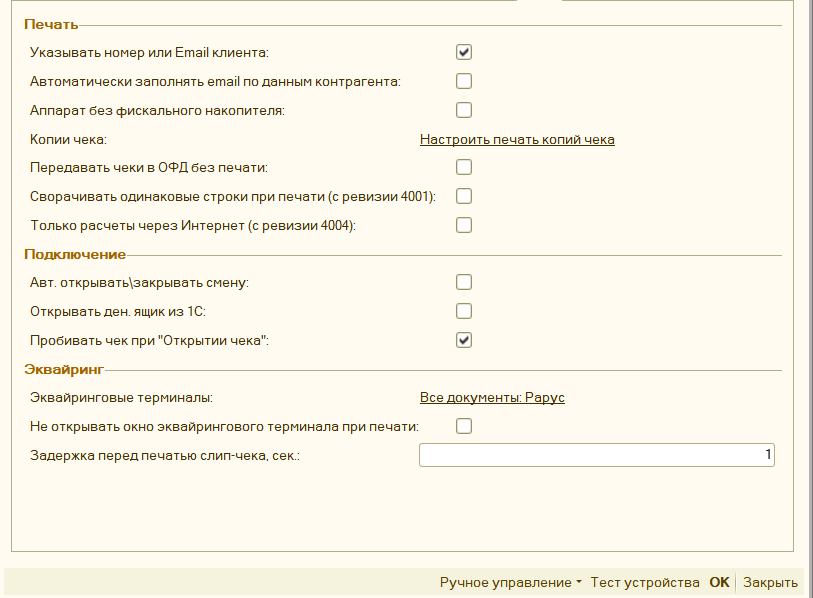
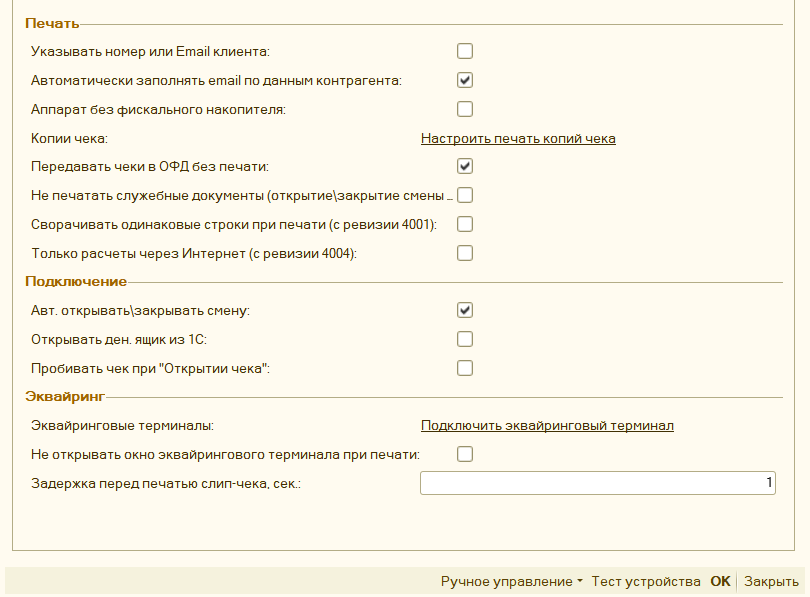
3.95

Changed region(s): [[0.0, 0.0, 1.0, 1.0], [0.0309, 0.7538, 0.5247, 0.8442], [0.0309, 0.1809, 0.3704, 0.2412]]

diff --git a/docs/connecting.md b/docs/connecting.md
@@ -21,6 +21,7 @@
    - укажите **"путь к компонентам ТО"**, если вы их уже скачали, либо нажмите на ссылку **"Скачать компоненты оборудования"** и скачайте компоненты для вашей операционной системы (Windows или Linux), и распакуйте их в доступный каталог, после этого выберите папку с ними в указанном поле.
    - выберите вашу систему налогообложения - "по умолчанию"
    - укажите тип лицензии, которую хотите активировать или "демо"
+   - если вы используете НДС 5% и 7%, то в списке компонент нужно выбирать те, что помечены "НДС", подробнее описано [здесь](instruction.md#поддержка-ндс-5-и-7)
    - если необходимо активировать лицензию, нажмите на "**Получить ключ**" и воспользуйтесь инструкцией для [формы лицензирования](licensing.md#форма-лицензирования)
    - если по каким-либо причинам при активации появляется ошибка, то можно нажать "**Использовать COM компоненту для обертки NATIVE**", которая будет использовать компоненту [прослойку](#особенность-подключения-81) между обработкой и оборудованием
    - нажмите "**активировать**" - откроется форма [основных настроек обработки](parameters_description.md)

diff --git a/docs/parameters_description.md b/docs/parameters_description.md
@@ -114,6 +114,8 @@ hide:
 
 **«Передавать чеки в ОФД без печати»** - если передается email или номер телефона клиента, то чек не будет напечатан, а только будет передан в ОФД.
 
+**«Не печатаь служебные документ (открытие и закрыте смены) (с ревизии 4001)»** - начиная с ревизии компоненты 4001, позволяет отключить печать в бумажном виде отчета об открытии и закрытии смены.
+
 **Сворачивать одинаковые строки при печати (с ревизии 4001)** - применяется с ревиизии драйверов 4001, если установлен данный параметр, то на кассу будет передаваться признак, что касса должна сворачивать одинаковые строки при печати, что существенно должно сократить размеры чека, на электронный чек это не влияет. Пока не проверено, но в теории должно подходить и для маркированного товара, который пробивается по одной штуке.
 
 **Только расчеты через интернет (с ревизии 4004)** - применяется с ревизии драйверов 4004, на кассу передается признак, что касса ведет онлайн расчет, при установке этого признака также не будут печататься отчеты об открытии или закрытии смены, а только в электронном виде.
